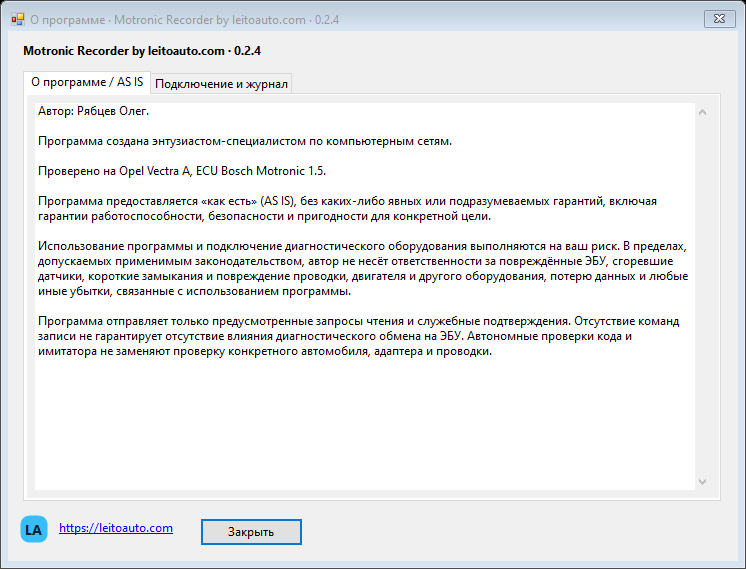
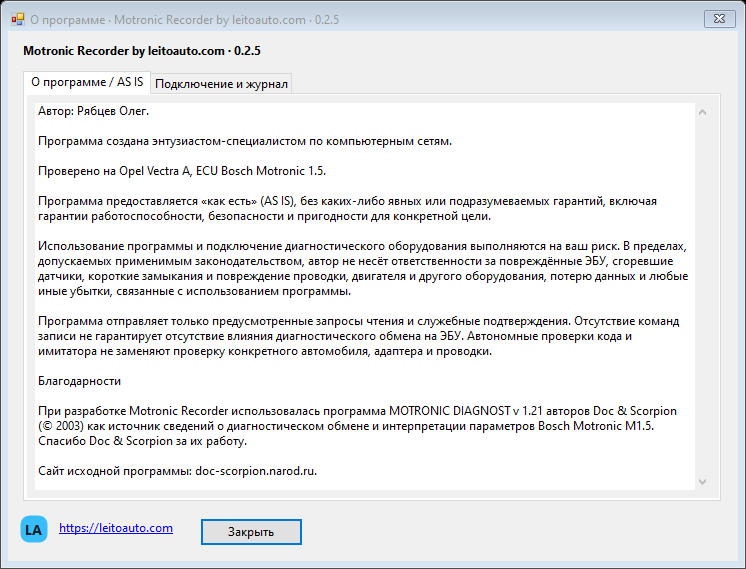
Подготовлен релиз 0.2.5: README, сборки и благодарности

Changed region(s): [[0.0308, 0.717, 0.9249, 0.8366], [0.0308, 0.6573, 0.1542, 0.6872]]

diff --git a/AGENTS.md b/AGENTS.md
@@ -35,3 +35,5 @@
 Это уточнение заменяет прежние указания об адресе и отсутствии имени в разделе «О программе».AS IS сохранять в программе и описании. Журнал communication.txt не должен добавлять дисковую запись внутри побайтовых ACK. При ошибке связи опрос останавливается, порт закрывается; новый запуск только по действию пользователя. Автоматические реинициализации не возвращать.
 Не требовать FTDI Latency Timer1/2мс: такой профиль не проверен; сохранять настройки рабочего адаптера.
 В «О программе» сохранять «Проверено на Opel Vectra A, ECU Bosch Motronic 1.5», без уточнения номера старой версии.
+## Версия 0.2.5
+Добавить только благодарность авторам MOTRONIC DIAGNOST v1.21 — Doc & Scorpion ©2003, doc-scorpion.narod.ru — в конце текста «О программе». Остальной UI/тексты и диагностику не менять; обновить номер выпуска. Старые EXE/архивы/README и изменения GitHub README сохранить. На автомобиле владелец подтвердил 0.2.2, а не 0.2.4/0.2.5. 
